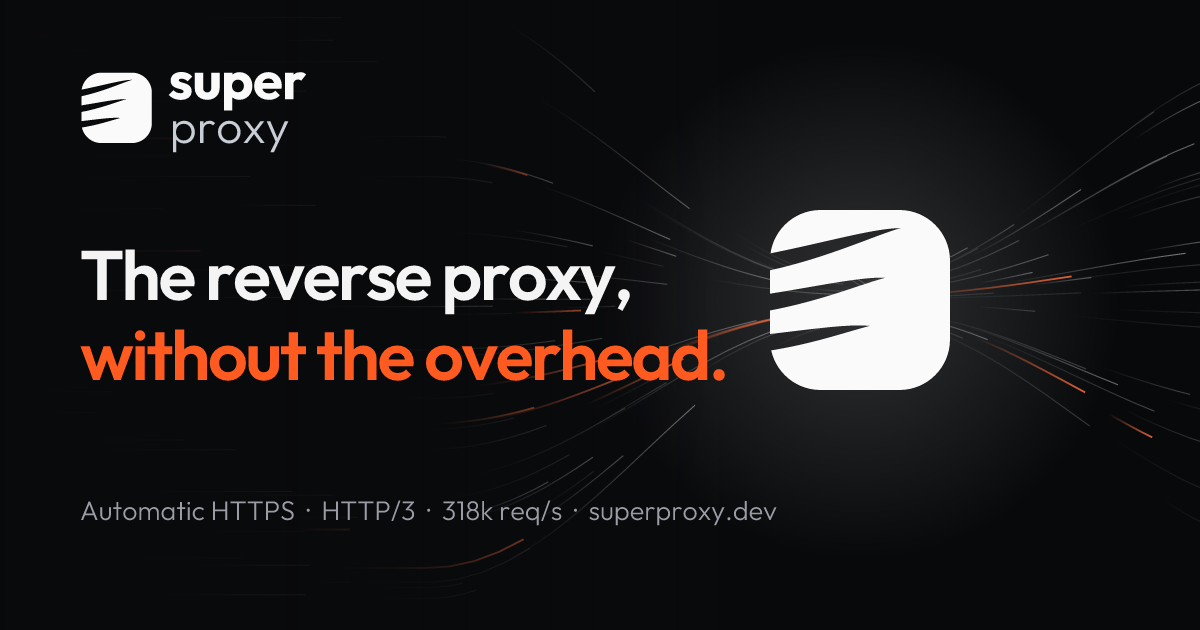
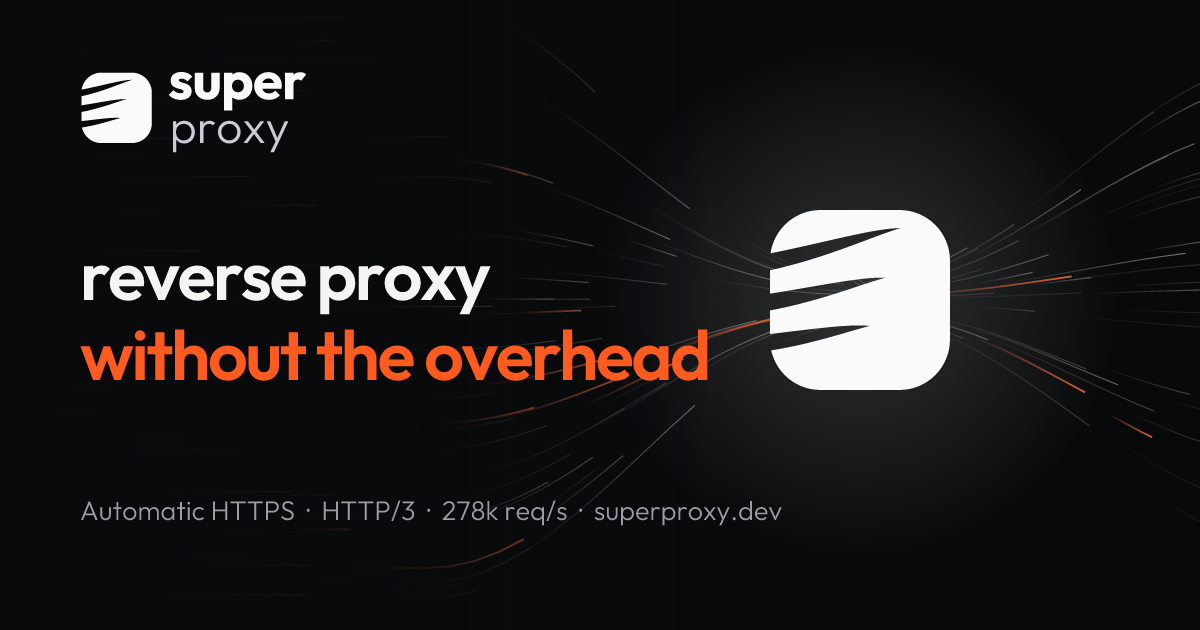
docs: the home page's share image with its headline and numbers as they are now

Changed region(s): [[0.0617, 0.3921, 0.5242, 0.5127], [0.37, 0.7841, 0.6475, 0.8444], [0.5858, 0.573, 0.6167, 0.6032]]

diff --git a/site/public/index.html b/site/public/index.html
@@ -14,14 +14,16 @@
   <meta property="og:url" content="https://superproxy.dev/">
   <meta property="og:title" content="Super: the reverse proxy, without the overhead">
   <meta property="og:description" content="Automatic HTTPS, load balancing, HTTP/3, rules, plugins and an admin UI. Fast enough to forget it's there.">
-  <meta property="og:image" content="https://superproxy.dev/og.png">
+  <meta property="og:image" content="https://superproxy.dev/og.png?v=2">
+  <meta property="og:image:type" content="image/png">
   <meta property="og:image:width" content="1200">
   <meta property="og:image:height" content="630">
   <meta property="og:image:alt" content="Super proxy: requests streaming through the Super wing">
   <meta name="twitter:card" content="summary_large_image">
   <meta name="twitter:title" content="Super: the reverse proxy, without the overhead">
   <meta name="twitter:description" content="Automatic HTTPS, load balancing, HTTP/3, rules, plugins and an admin UI. Fast enough to forget it's there.">
-  <meta name="twitter:image" content="https://superproxy.dev/og.png">
+  <meta name="twitter:image" content="https://superproxy.dev/og.png?v=2">
+  <meta name="twitter:image:alt" content="Super proxy: requests streaming through the Super wing">
 
   <link rel="icon" href="favicon.svg" type="image/svg+xml">
   <link rel="apple-touch-icon" href="apple-touch-icon.png">
